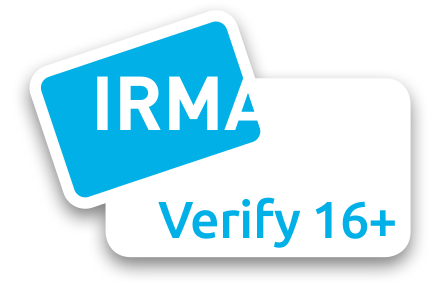
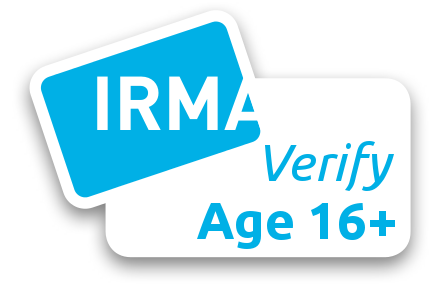
Fix issue #7 by correcting the image and text

Changed region(s): [[0.3537, 0.6667, 0.678, 0.8485], [0.5896, 0.4545, 0.9138, 0.6667], [0.7075, 0.6667, 0.8844, 0.8182]]

diff --git a/WebContent/verification/age/index.html b/WebContent/verification/age/index.html
@@ -102,7 +102,7 @@
           </div>
         
         <div class="IRMA_content_verify">
-          <span class="IRMA_content_credential">Age: &ge;16</span>
+          <span class="IRMA_content_credential">Age: 16+</span>
           <span class="IRMA_content_status" id="IRMA_status_text"></span>
         </div>
             
